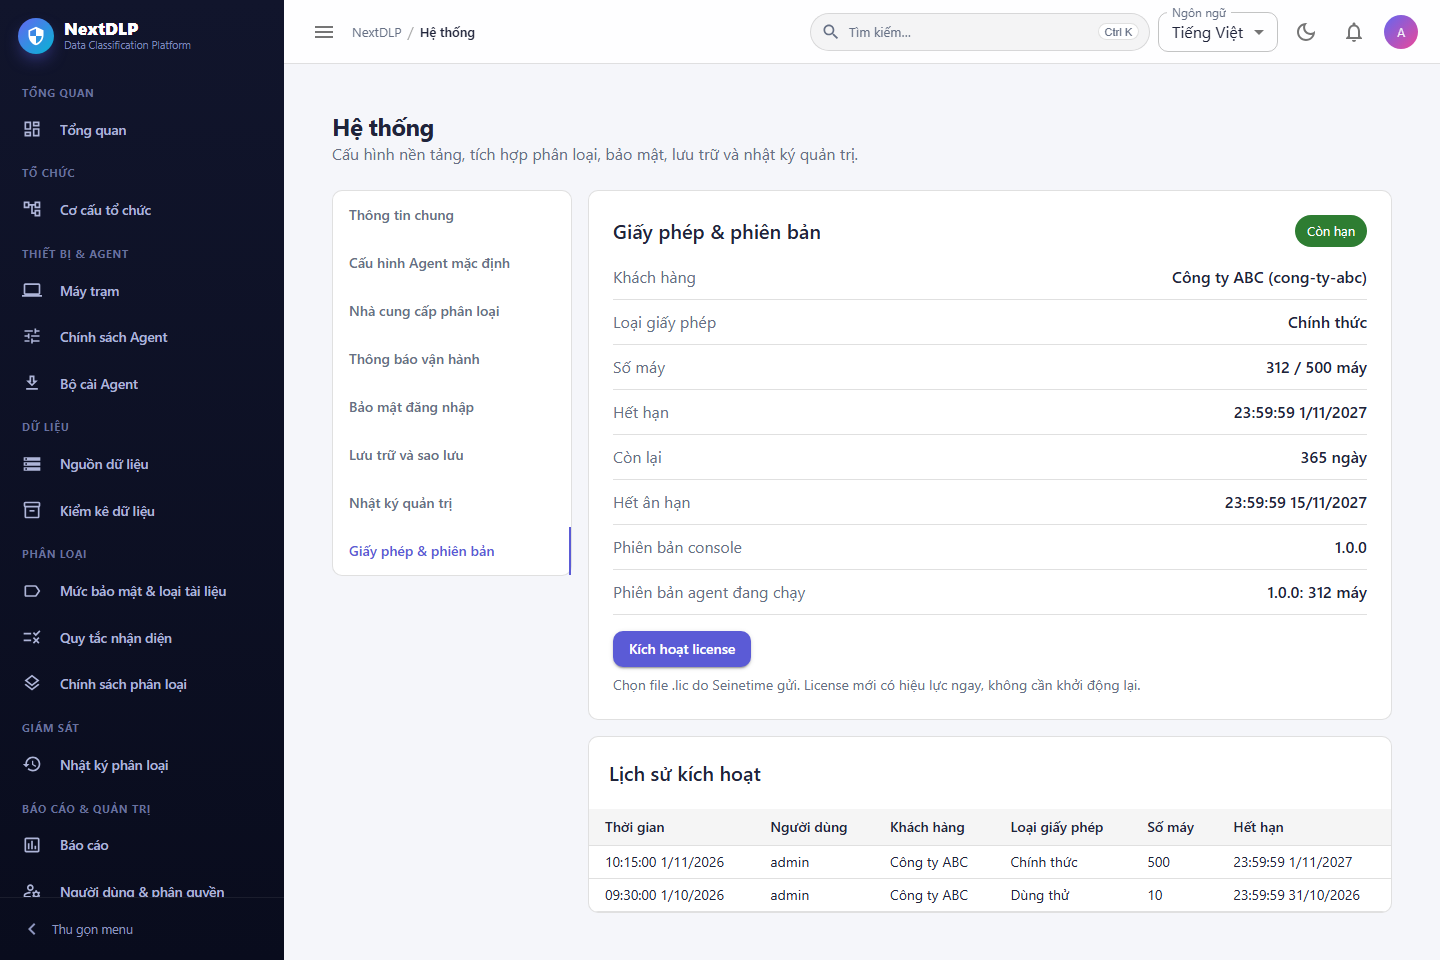
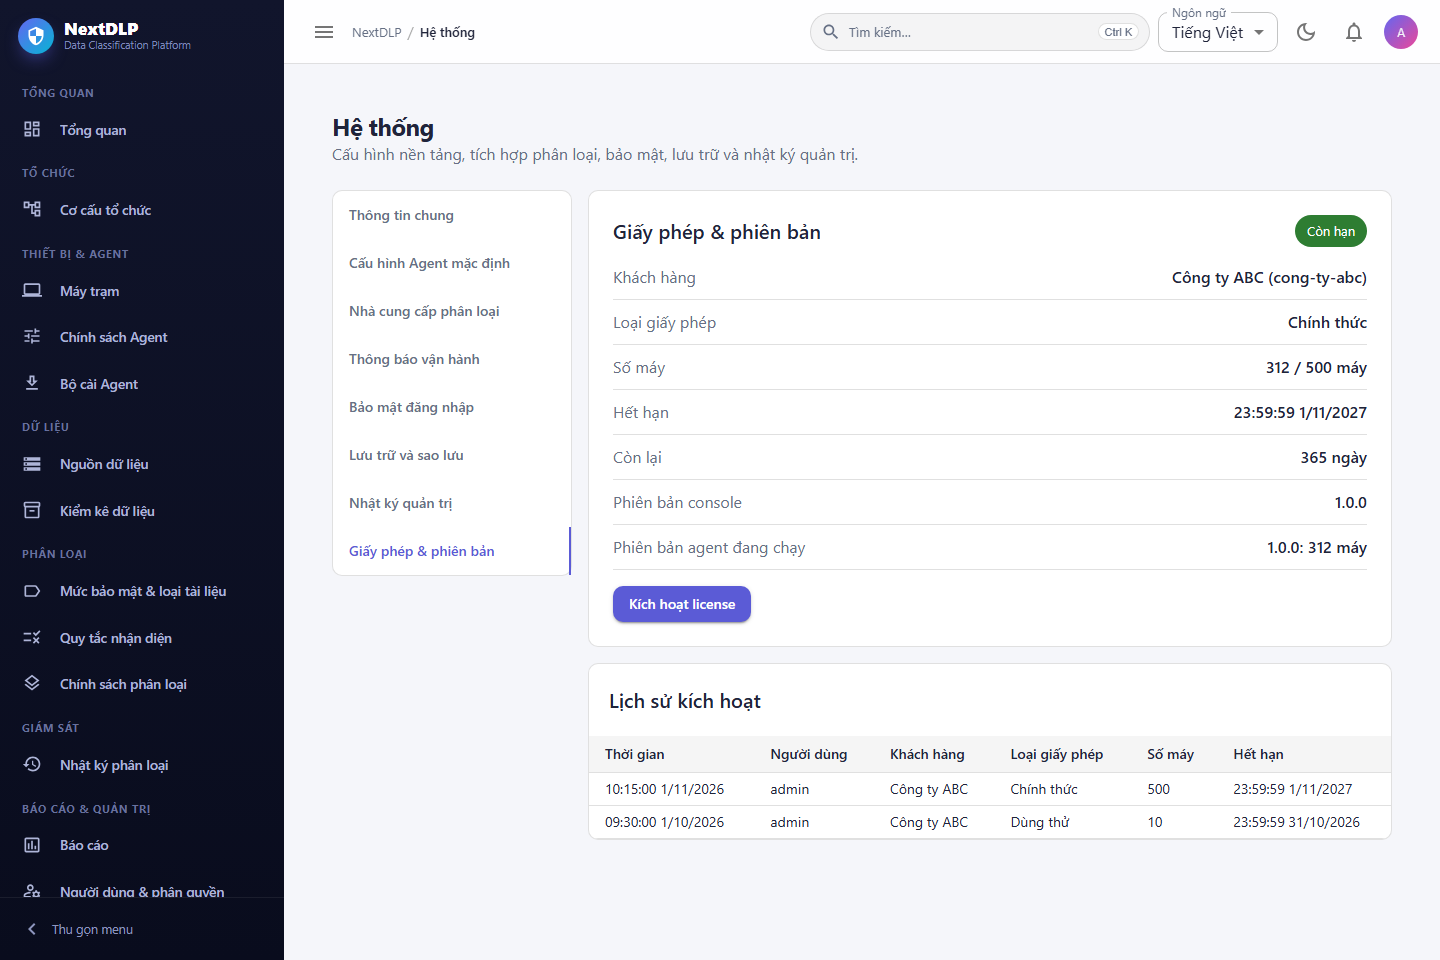
License page: new screenshot and error text, no vendor name

diff --git a/docs/admin/license.md b/docs/admin/license.md
@@ -1,14 +1,14 @@
 ---
 sidebar_position: 3
 title: Giấy phép
-description: Nhận file giấy phép từ Seinetime và kích hoạt trên Console.
+description: Nhận file giấy phép và kích hoạt trên Console.
 ---
 
-Giấy phép (license) cho biết tổ chức của bạn được dùng NextDLP trên bao nhiêu máy trạm và tới ngày nào. Seinetime gửi giấy phép dưới dạng một file `.lic`, và Quản trị hệ thống tải file này lên Console để kích hoạt.
+Giấy phép (license) cho biết tổ chức của bạn được dùng NextDLP trên bao nhiêu máy trạm và tới ngày nào. Giấy phép là một file `.lic`, và Quản trị hệ thống tải file này lên Console để kích hoạt.
 
 ## Bước 1. Nhận file giấy phép
 
-Seinetime gửi file `.lic` qua email hoặc kênh hỗ trợ khi bạn mua, gia hạn hoặc dùng thử NextDLP. Hãy lưu nguyên file ở nơi an toàn và không mở hay sửa file bằng trình soạn thảo, vì file đã bị sửa sẽ không kích hoạt được.
+Đội hỗ trợ NextDLP gửi file `.lic` qua email hoặc kênh hỗ trợ khi bạn mua, gia hạn hoặc dùng thử NextDLP. Hãy lưu nguyên file ở nơi an toàn và không mở hay sửa file bằng trình soạn thảo, vì file đã bị sửa sẽ không kích hoạt được.
 
 ## Bước 2. Tải file lên Console
 
@@ -24,8 +24,8 @@ Nếu file không hợp lệ, Console giữ nguyên giấy phép đang dùng và
 
 | Thông báo | Cách xử lý |
 |---|---|
-| File không phải license hợp lệ hoặc đã bị sửa. | Tải lại file gốc từ email. Nếu vẫn lỗi, liên hệ Seinetime. |
-| File license này đã hết hạn. | Liên hệ Seinetime để nhận file mới. |
-| File này cũ hơn license đang dùng nên không được kích hoạt. | Dùng file mới nhất Seinetime đã gửi. |
+| File không phải license hợp lệ hoặc đã bị sửa. | Tải lại file gốc từ email. Nếu vẫn lỗi, liên hệ đội hỗ trợ NextDLP. |
+| File license này đã hết hạn. | Liên hệ đội hỗ trợ NextDLP để nhận file mới. |
+| File này cũ hơn license đang dùng. | Dùng file mới nhất bạn nhận được. |
 
 Khi gia hạn hoặc nâng số máy, bạn làm lại đúng các bước trên với file mới.
